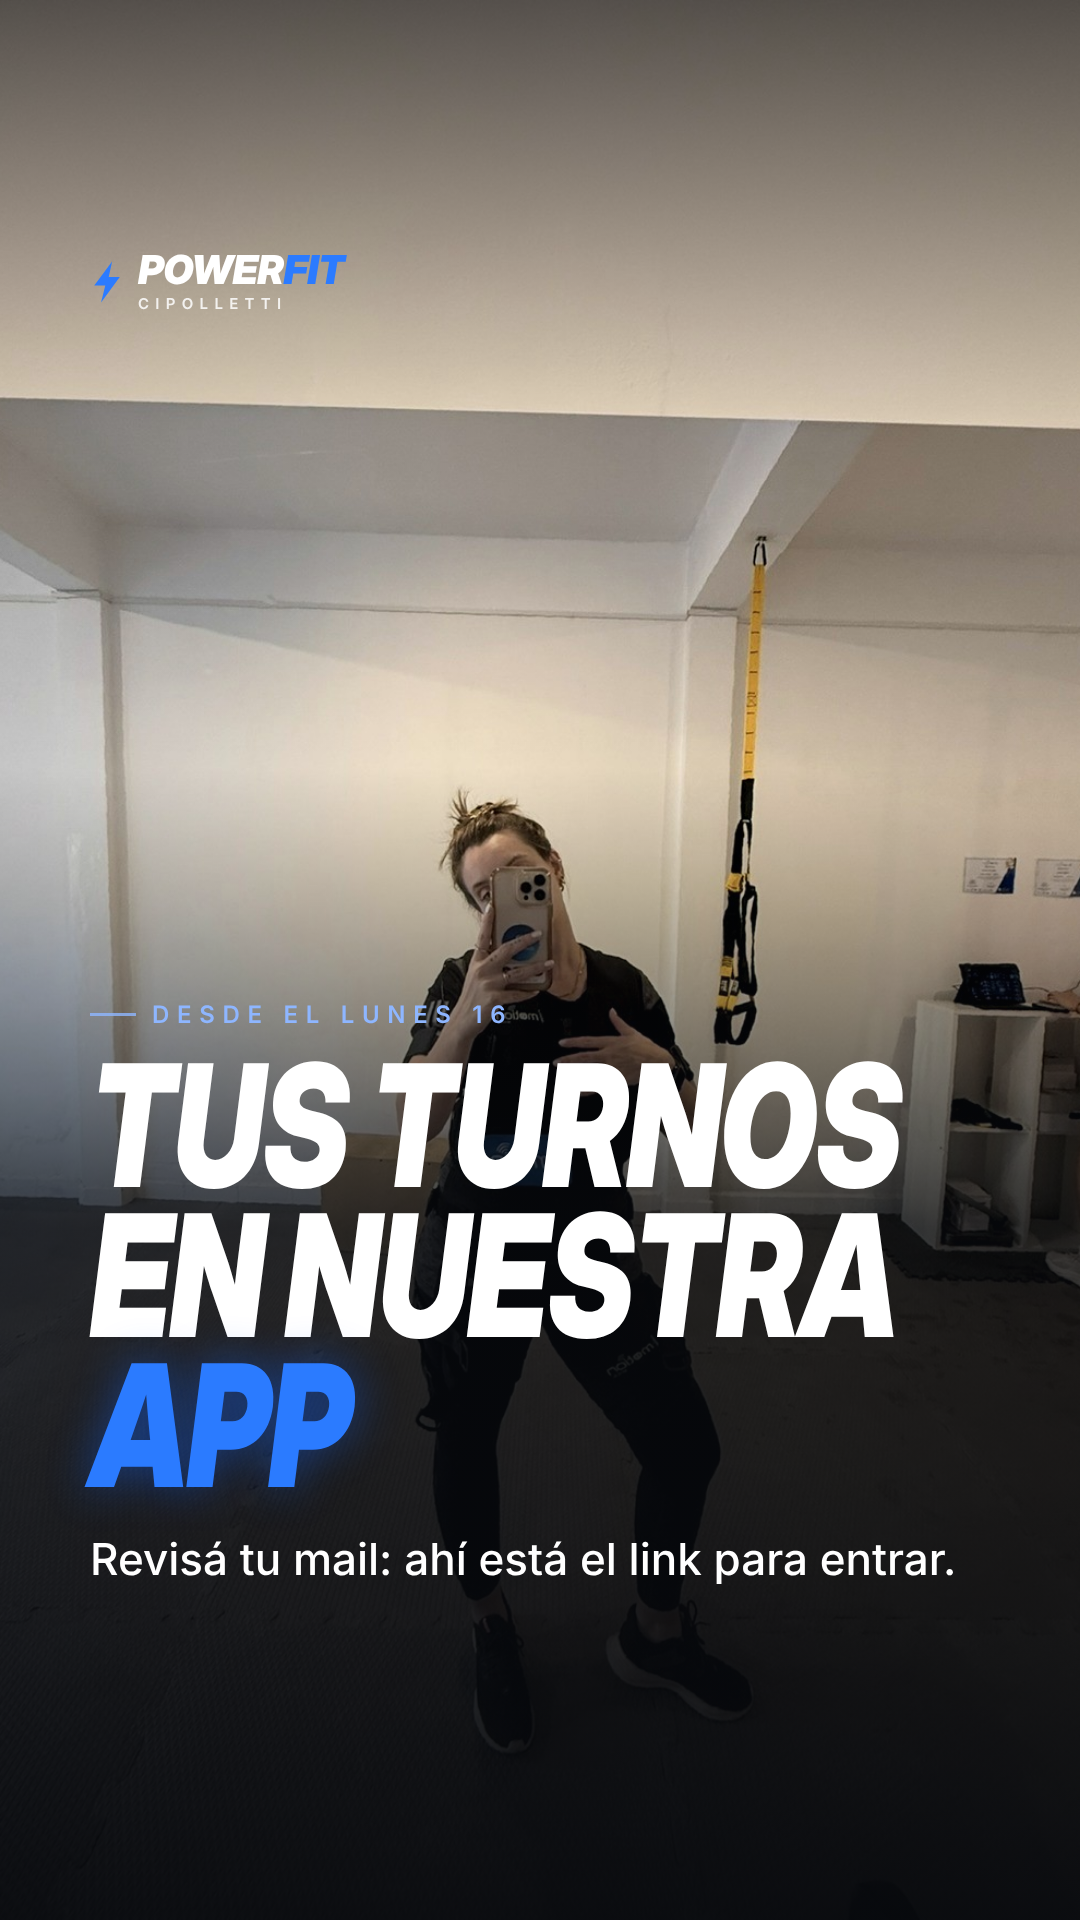
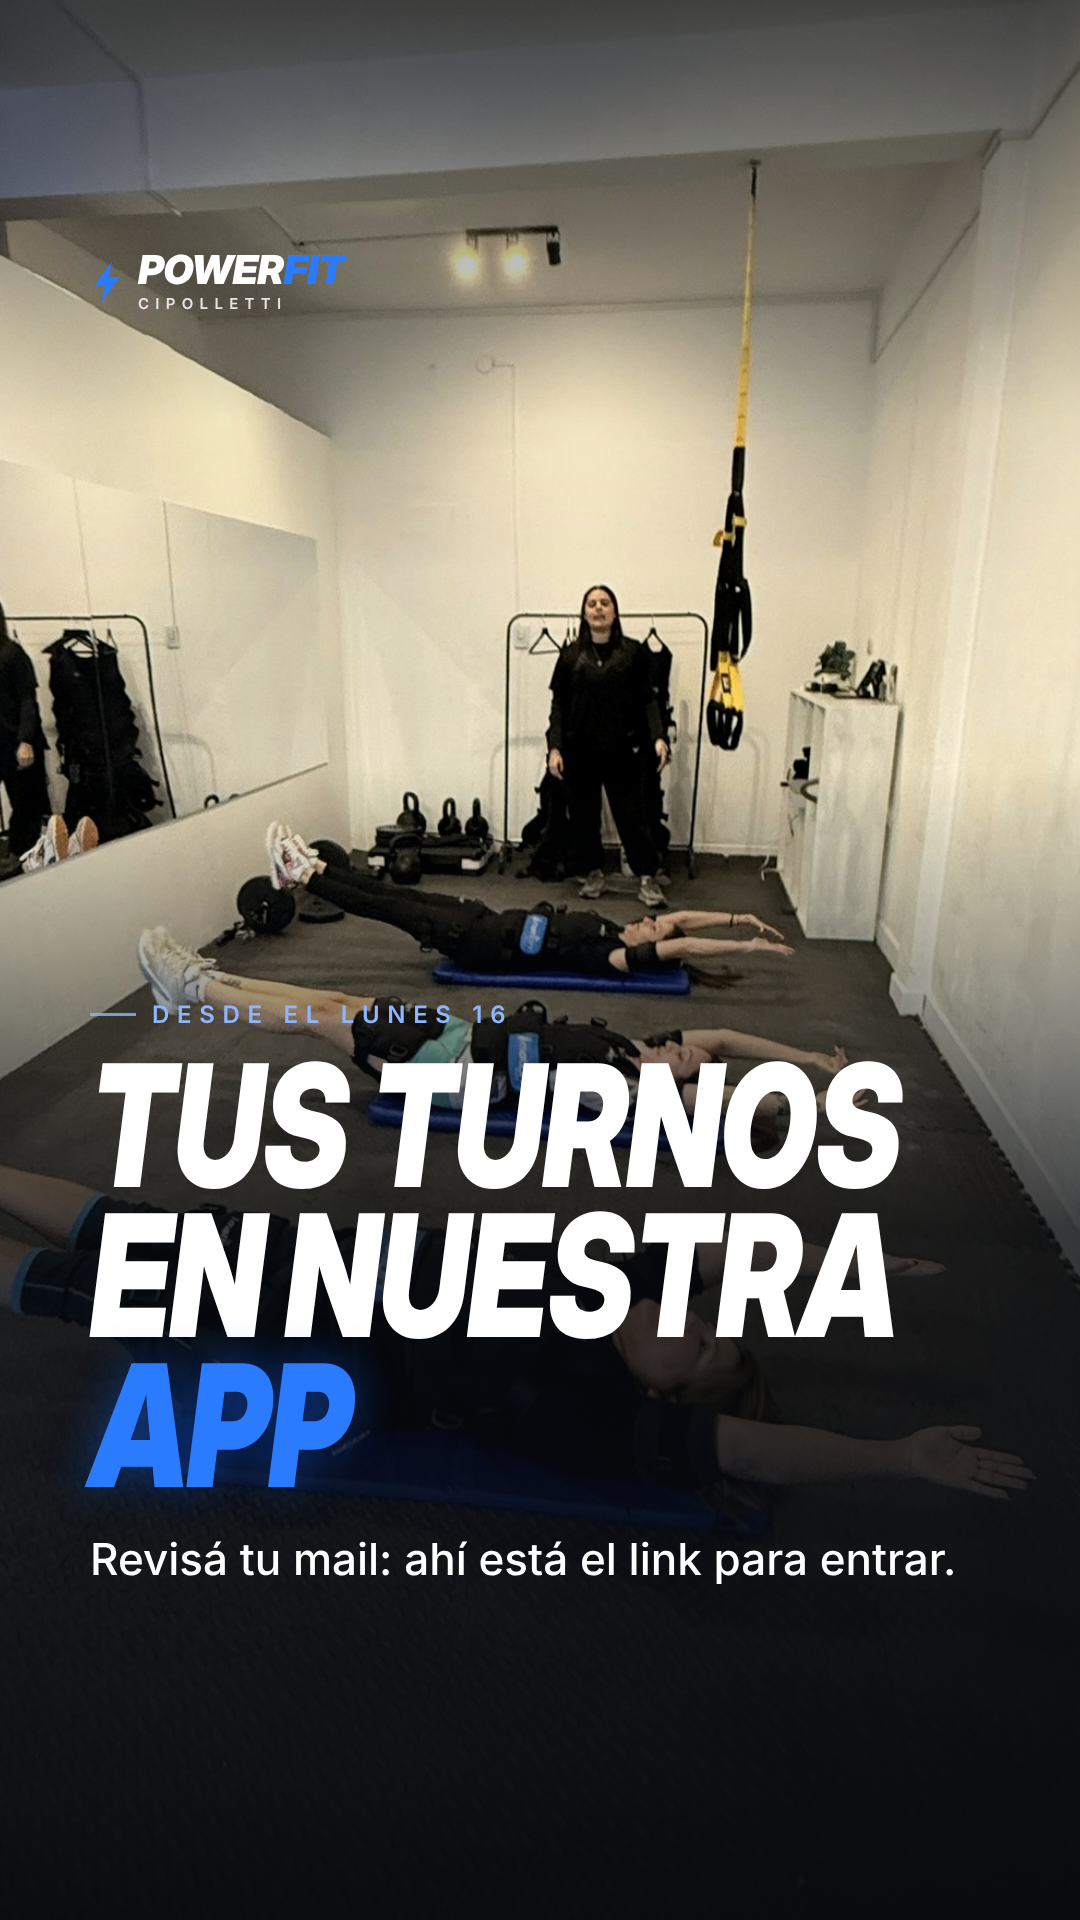
App propia: fotos nuevas del Drive, sin Marce
Claude-Session: https://claude.ai/code/session_01H35xmRxsE6r8xL9N2St37N

diff --git a/app-propia-2026-11/piezas.py b/app-propia-2026-11/piezas.py
@@ -34,13 +34,13 @@ CEL = lambda n: f'<div class="cel"><div style="background-image:url({b64(n)})"><
 PIE = '<div class="pie" style="margin-top:36px"><span>Córdoba 340 · Cipolletti</span><span class="boton">{}</span></div>'
 
 POSTS = {
- '2026-11-14-post-app-1': ('foto', H + '<div class="eye">Desde el lunes 16</div><h1>Tenemos<br>nuestra<br><em>propia app</em></h1><p class="sub">Tus turnos, tu plan y tus clases, en el celu.</p><div class="pie" style="margin-top:40px"><span>Deslizá</span><span class="boton">Ver más →</span></div>', 'ft_6734_grupo_profe', '50% 30%'),
+ '2026-11-14-post-app-1': ('foto', H + '<div class="eye">Desde el lunes 16</div><h1>Tenemos<br>nuestra<br><em>propia app</em></h1><p class="sub">Tus turnos, tu plan y tus clases, en el celu.</p><div class="pie" style="margin-top:40px"><span>Deslizá</span><span class="boton">Ver más →</span></div>', 'dr_13d6_dos_alumnas_sonrien', '50% 18%'),
  '2026-11-14-post-app-2': ('oscuro', '<div class="eye" style="margin-top:30px">Reservar es así de fácil</div><div class="fila" style="margin-top:40px"><div class="txt"><h1 style="font-size:118px">Elegís<br>día y<br><em>horario</em></h1><p class="sub" style="font-size:32px">Y si te surge algo, lo cambiás o lo cancelás hasta 1 hora antes.</p></div>' + CEL('cel-reservar.png') + '</div>' + PIE.format('Desde el lunes'), None, None),
  '2026-11-14-post-app-3': ('claro', '<div class="eye" style="margin-top:30px">Todo a la vista</div><div class="fila" style="margin-top:40px"><div class="txt"><h1 style="font-size:118px">Tus<br>clases<br>y tu <em>plan</em></h1><p class="sub" style="font-size:32px">Cuántas clases te quedan, cuándo vence tu plan y tus próximos turnos.</p></div>' + CEL('cel-inicio.png') + '</div>' + PIE.format('Desde el lunes'), None, None),
- '2026-11-14-post-app-4': ('foto', H + '<div class="eye">¿Cómo entro?</div><h1>Revisá<br>tu <em>mail</em></h1><p class="sub">Te mandamos el link por mail y por WhatsApp. Entrá con el mismo mail que nos diste. ¿No te llegó? Escribinos.</p>' + PIE.format('WhatsApp →'), 'wa_profe_muestra_colchoneta_1', '50% 30%'),
+ '2026-11-14-post-app-4': ('foto', H + '<div class="eye">¿Cómo entro?</div><h1>Revisá<br>tu <em>mail</em></h1><p class="sub">Te mandamos el link por mail y por WhatsApp. Entrá con el mismo mail que nos diste. ¿No te llegó? Escribinos.</p>' + PIE.format('WhatsApp →'), 'dr_3cc2_plancha_dos', '50% 45%'),
 }
 HIST = {
- '2026-11-14-historia-app': ('foto', H + '<div class="eye">Desde el lunes 16</div><h1>Tus turnos<br>en nuestra<br><em>app</em></h1><p class="sub">Revisá tu mail: ahí está el link para entrar.</p>', 'ft_6726_selfie_traje', '50% 25%'),
+ '2026-11-14-historia-app': ('foto', H + '<div class="eye">Desde el lunes 16</div><h1>Tus turnos<br>en nuestra<br><em>app</em></h1><p class="sub">Revisá tu mail: ahí está el link para entrar.</p>', 'ft_6736_grupo3', '55% 40%'),
  '2026-11-16-a-historia-app': ('oscuro', '<div class="eye" style="margin-top:70px">Hoy arranca</div><h1 style="font-size:150px">Reservá<br>desde la <em>app</em></h1><p class="sub">Entrá con el link que te mandamos.</p><div style="margin-top:24px">' + CEL('cel-inicio.png') + '</div>', None, None),
  '2026-11-16-b-historia-app': ('claro', '<div class="eye" style="margin-top:40px">Un tip</div><h1>Guardala<br>en tu <em>celu</em></h1><div class="pasos"><div><b>iPhone</b>Abrila en Safari, tocá Compartir y después “Agregar a inicio”.</div><div><b>Android</b>Abrila en Chrome, tocá los tres puntitos y después “Agregar a pantalla principal”.</div></div><p class="sub">Así la abrís como cualquier app, con un toque.</p>', None, None),
 }
